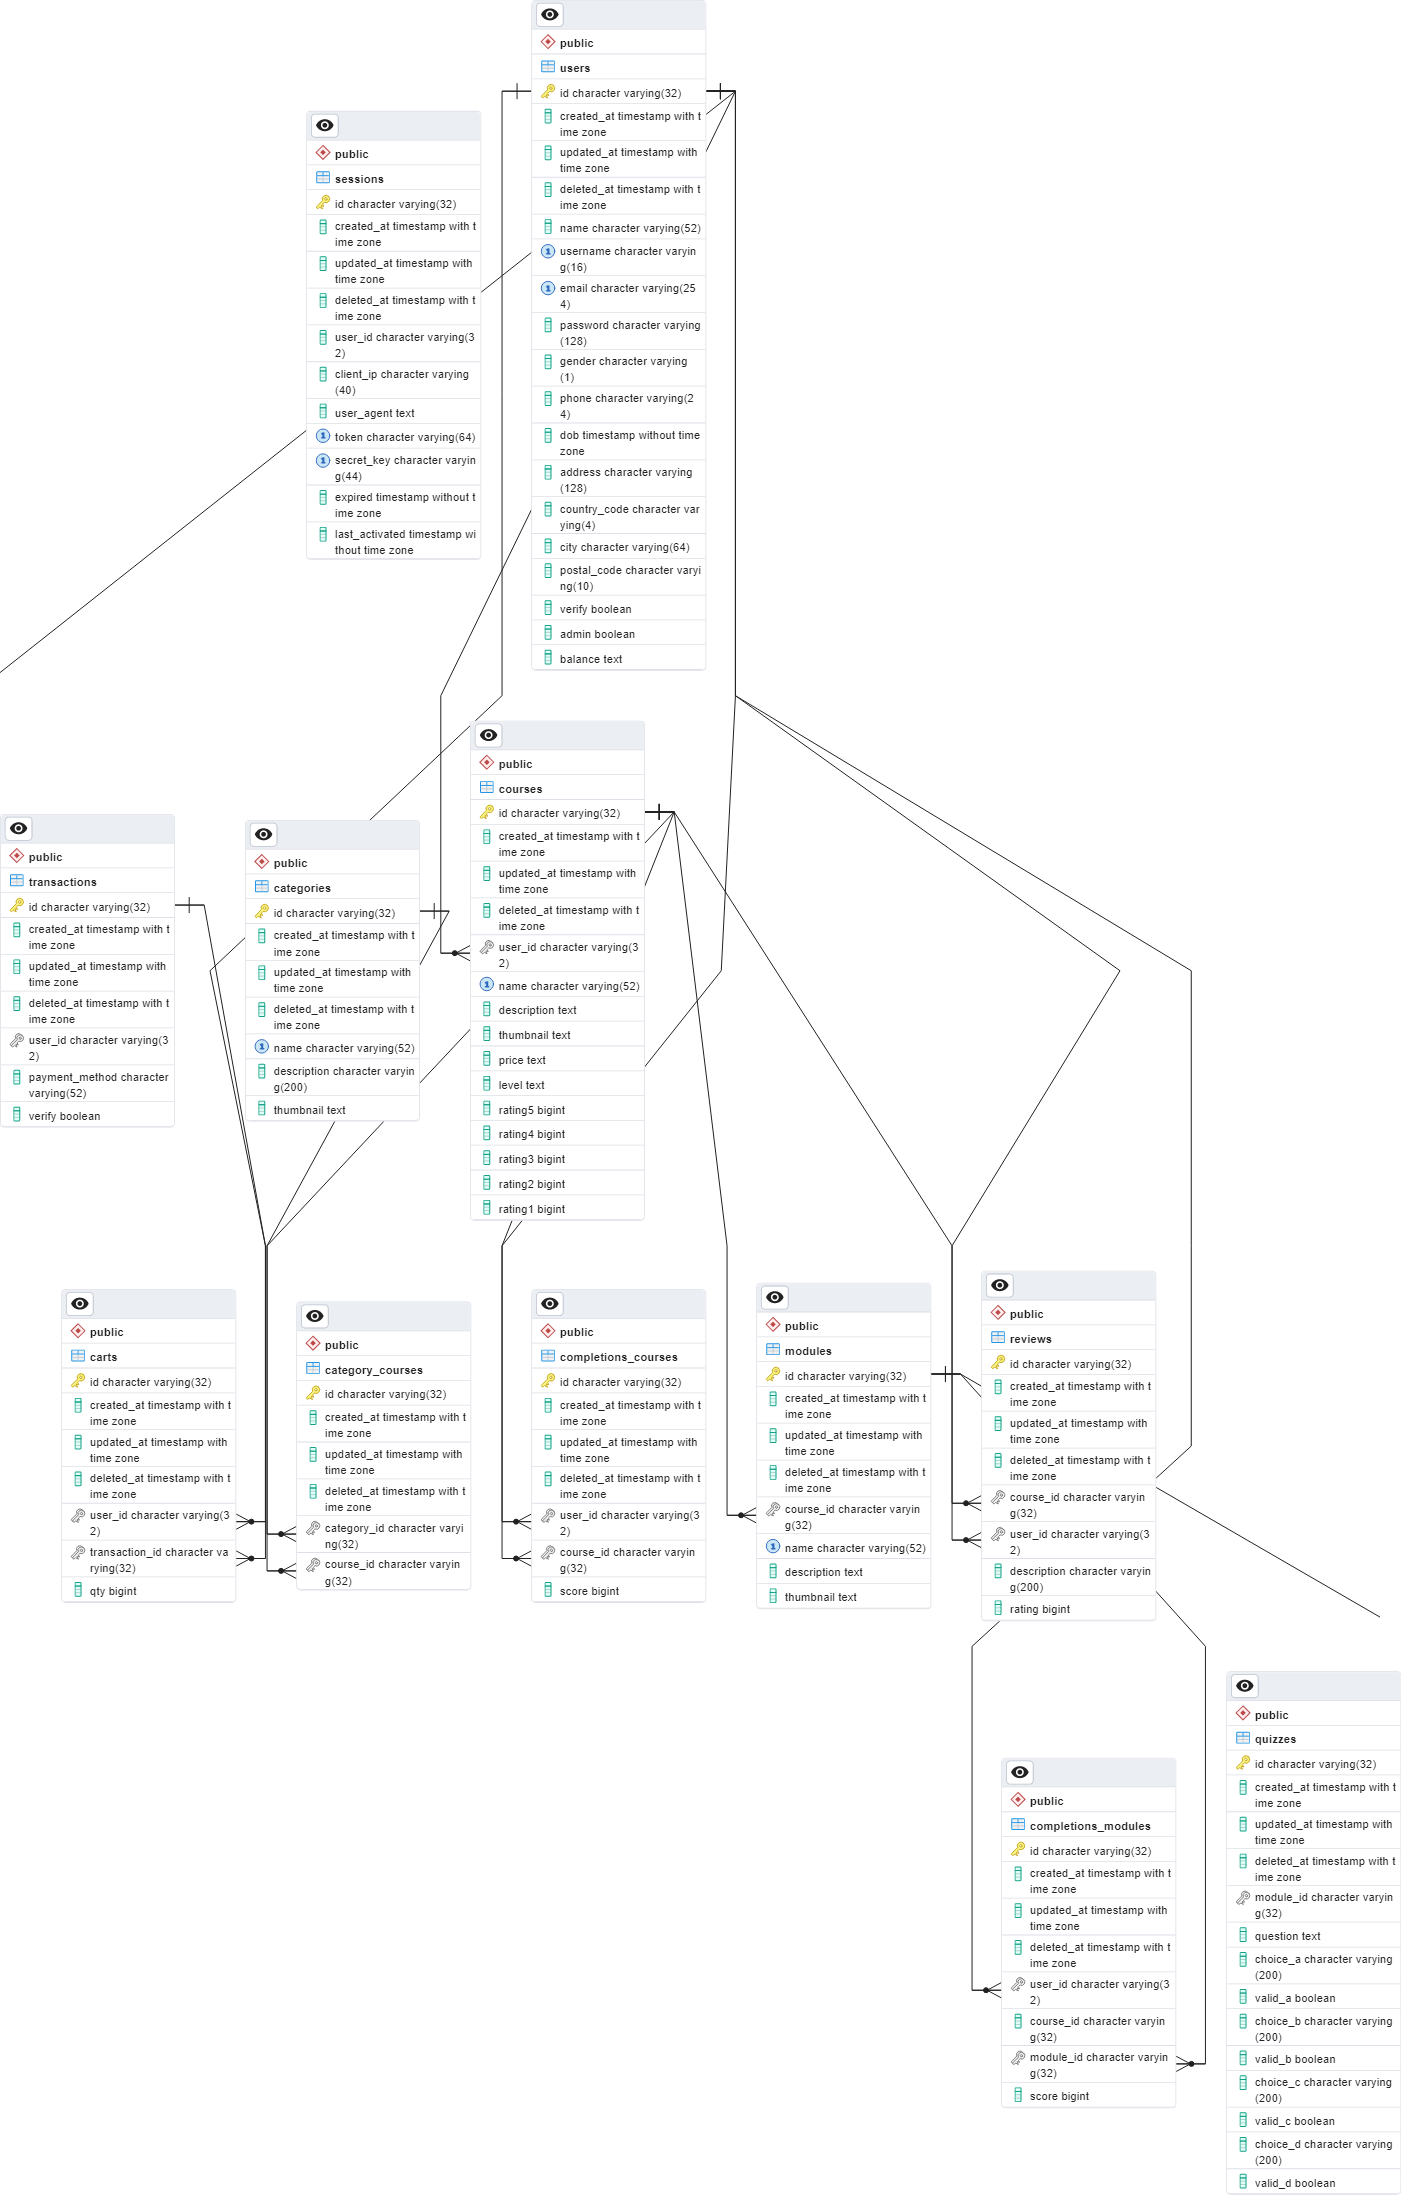
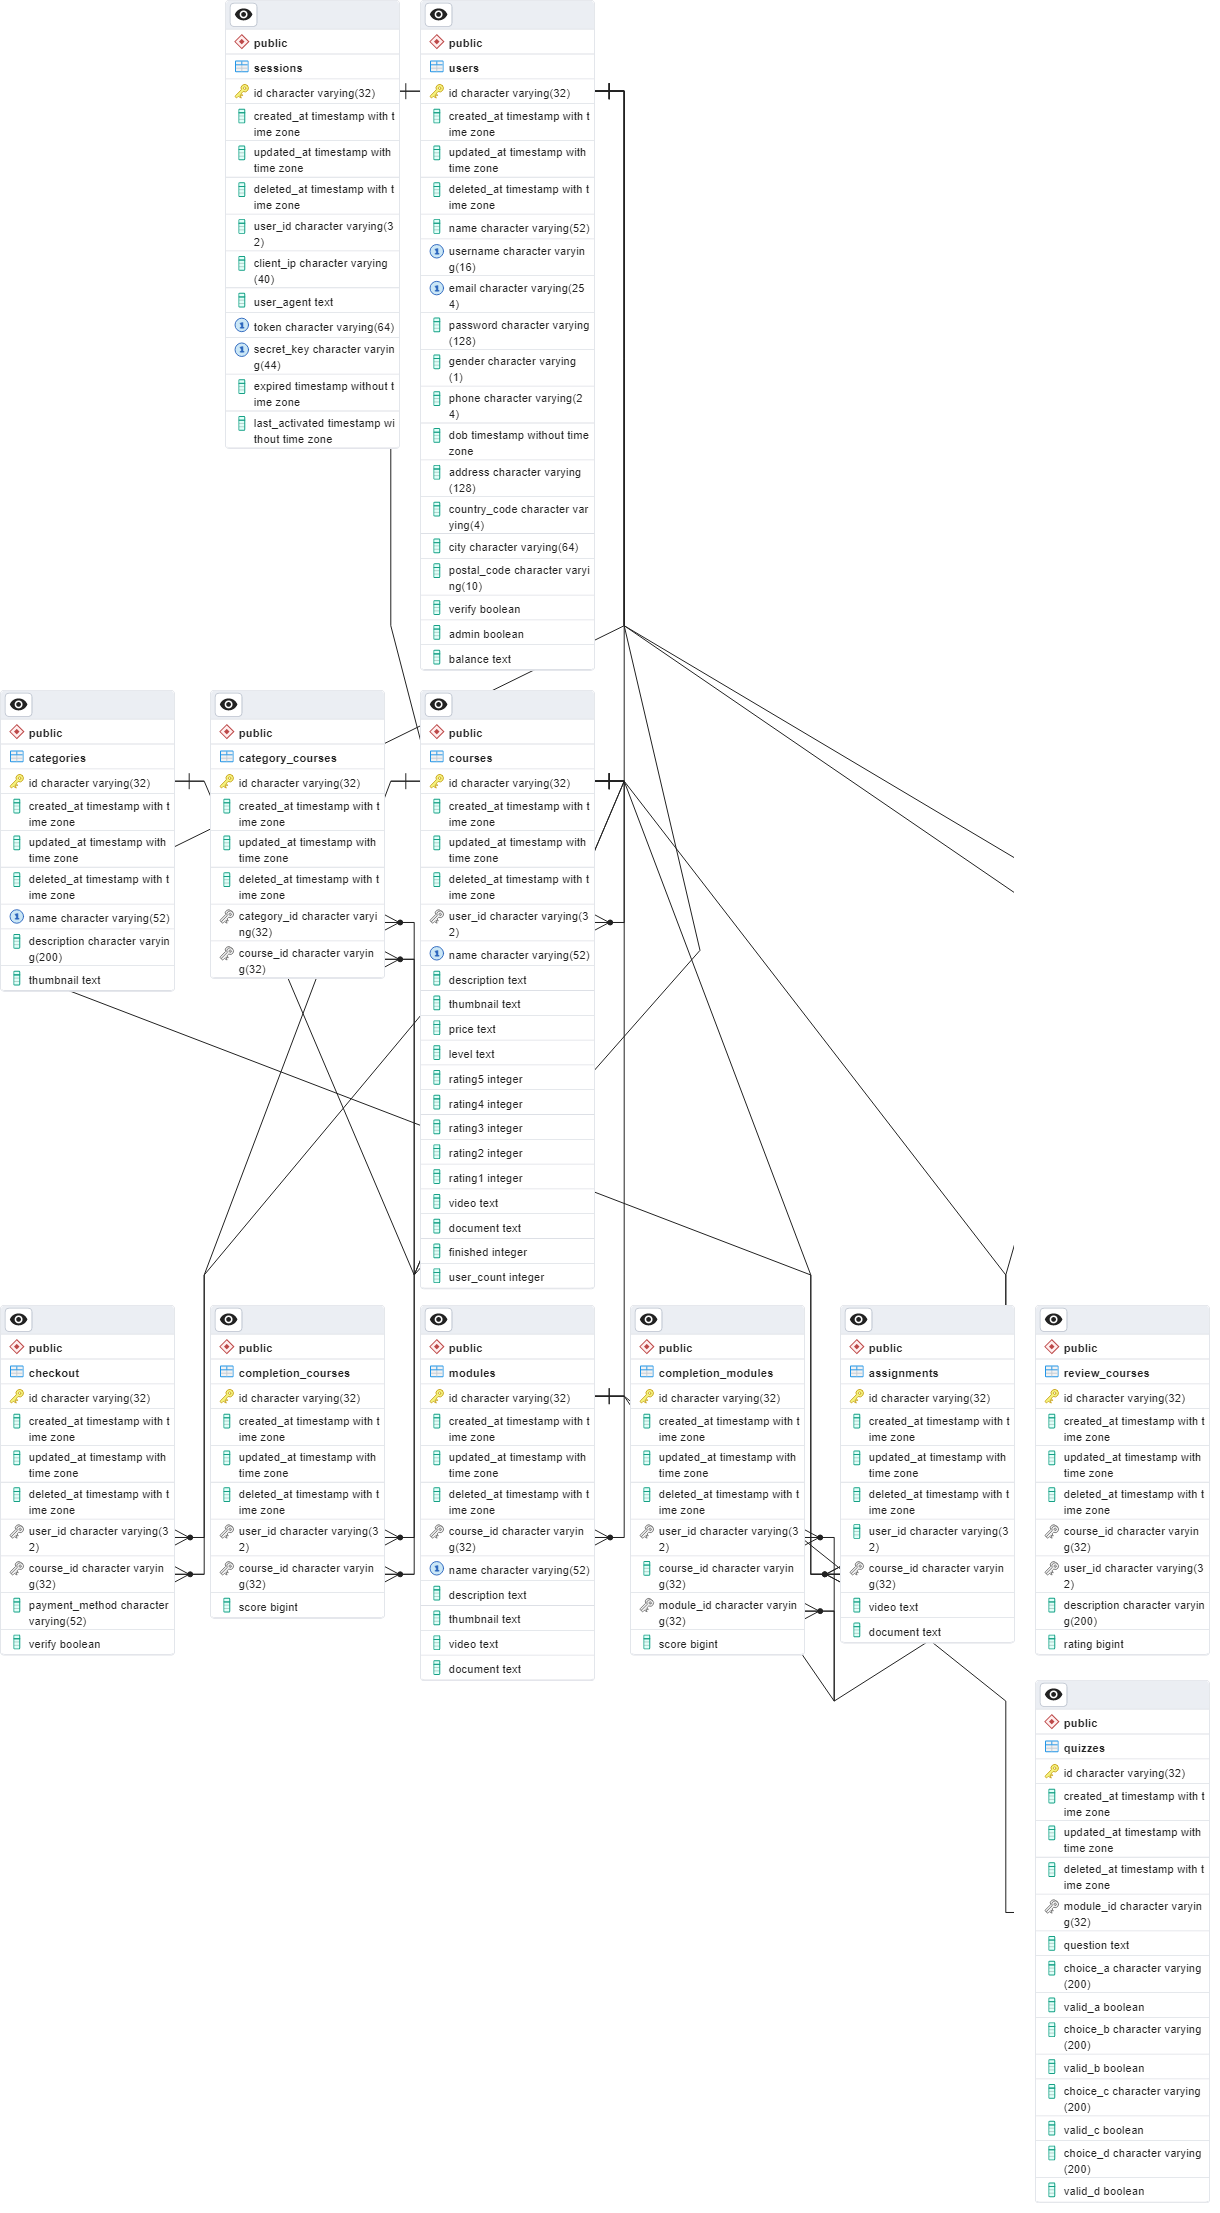
feat/fix assignments + schema erd

Changed region(s): [[0.0, 0.0, 0.9967, 1.0]]

diff --git a/app/repository/assignments.go b/app/repository/assignments.go
@@ -1,0 +1,84 @@
+package repository
+
+import (
+  "gorm.io/gorm"
+  "lms/app/models"
+  "skfw/papaya/pigeon/easy"
+)
+
+type AssignmentRepository struct {
+  Repository easy.RepositoryImpl[models.Assignments]
+}
+
+type AssignmentRepositoryImpl interface {
+  easy.RepositoryImpl[models.Assignments]
+}
+
+func AssignmentRepositoryNew(DB *gorm.DB) (AssignmentRepositoryImpl, error) {
+
+  var err error
+  var repo easy.RepositoryImpl[models.Assignments]
+  if repo, err = easy.RepositoryNew[models.Assignments](DB, &models.Assignments{}); err != nil {
+
+    return nil, err
+  }
+  assignmentRepo := &AssignmentRepository{
+    Repository: repo,
+  }
+  return assignmentRepo, nil
+}
+
+func (m *AssignmentRepository) Init(DB *gorm.DB, model *models.Assignments) error {
+
+  return m.Repository.Init(DB, model)
+}
+
+func (m *AssignmentRepository) SessionNew() {
+
+  m.Repository.SessionNew()
+}
+
+func (m *AssignmentRepository) Find(query any, args ...any) (*models.Assignments, error) {
+
+  return m.Repository.Find(query, args...)
+}
+
+func (m *AssignmentRepository) FindAll(size int, page int, query any, args ...any) ([]models.Assignments, error) {
+
+  return m.Repository.FindAll(size, page, query, args...)
+}
+
+func (m *AssignmentRepository) CatchAll(size int, page int) ([]models.Assignments, error) {
+
+  return m.Repository.CatchAll(size, page)
+}
+
+func (m *AssignmentRepository) Create(model *models.Assignments) (*models.Assignments, error) {
+
+  return m.Repository.Create(model)
+}
+
+func (m *AssignmentRepository) Update(model *models.Assignments, query any, args ...any) error {
+
+  return m.Repository.Update(model, query, args...)
+}
+
+func (m *AssignmentRepository) Remove(query any, args ...any) error {
+
+  return m.Repository.Remove(query, args...)
+}
+
+func (m *AssignmentRepository) Delete(query any, args ...any) error {
+
+  return m.Repository.Delete(query, args...)
+}
+
+func (m *AssignmentRepository) Unscoped() easy.RepositoryImpl[models.Assignments] {
+
+  return m.Repository.Unscoped()
+}
+
+func (m *AssignmentRepository) GORM() *gorm.DB {
+
+  return m.Repository.GORM()
+}

diff --git a/app/app.go b/app/app.go
@@ -59,6 +59,7 @@ func App(pn papaya.NetImpl) error {
     &models.Categories{},
     &models.Courses{},
     &models.CategoryCourses{},
+    &models.Assignments{},
     &models.Modules{},
     &models.Quizzes{},
     &models.ReviewCourses{},
